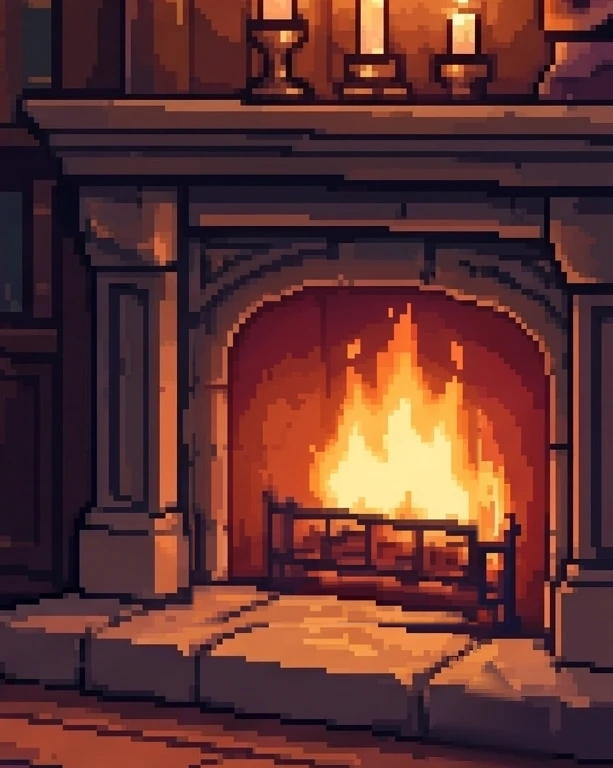
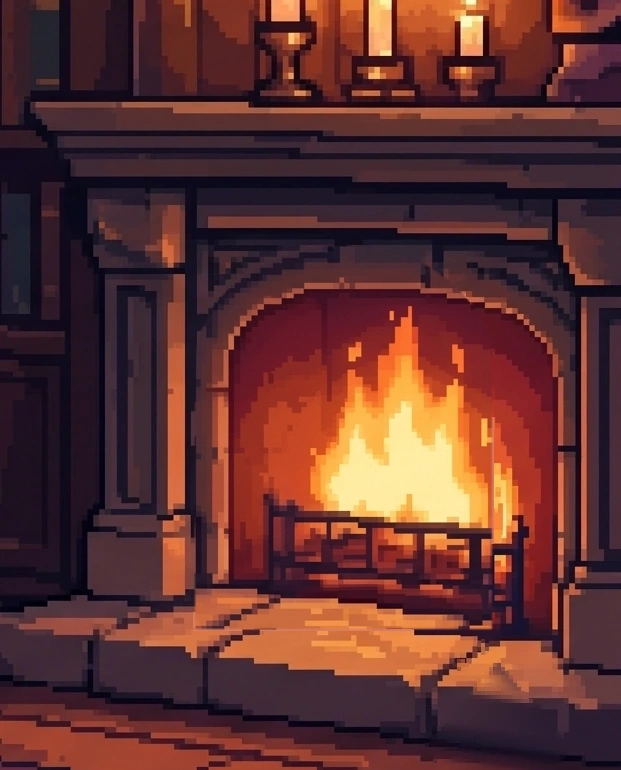
fix(calcifer): fix rocking chair overlap and eliminate background flame glitch across all 24 frames

diff --git a/index.html b/index.html
@@ -8,7 +8,7 @@
   <link rel="preconnect" href="https://fonts.googleapis.com">
   <link rel="preconnect" href="https://fonts.gstatic.com" crossorigin>
   <link href="https://fonts.googleapis.com/css2?family=Be+Vietnam+Pro:wght@300;400;500&family=Cormorant+Garamond:ital,wght@0,300;0,400;0,500;1,300;1,400&family=Press+Start+2P&family=Lora:ital,wght@0,400;0,600;1,400&family=Playfair+Display:ital,wght@0,400;0,700;1,400&family=Dancing+Script:wght@400;700&family=Patrick+Hand&display=swap" rel="stylesheet">
-  <link rel="stylesheet" href="css/style.css?v=20261018p">
+  <link rel="stylesheet" href="css/style.css?v=20261018q">
 </head>
 <body>
 <main id="app">
@@ -377,7 +377,7 @@
 <script src="js/shooting.js?v=20261018m"></script>
 <script src="js/galaxy.js?v=20261018m"></script>
 <script src="js/intro.js?v=20261018n"></script>
-<script src="js/calcifer.js?v=20261018p"></script>
+<script src="js/calcifer.js?v=20261018q"></script>
 <script src="js/main.js?v=20261018n"></script>
 <script src="js/dog.js?v=20261018m"></script>
 </body>

diff --git a/css/style.css b/css/style.css
@@ -27,7 +27,7 @@ button{font:inherit;color:inherit;background:none;border:0;cursor:pointer}
 #intro.open .bg-open{opacity:1}
 
 .sprite{position:absolute;image-rendering:pixelated;pointer-events:none;transition:opacity 1.6s ease}
-.girl{left:56%;top:27.5%;width:28.2%;transform-origin:50% 94%;
+.girl{left:56%;top:27.5%;width:28.2%;z-index:5;transform-origin:50% 94%;
   animation:rock 5.2s ease-in-out infinite;filter:drop-shadow(0 6px 0 rgba(0,0,0,.18))}
 .dog{left:41%;top:71%;width:27%;z-index:2;transform-origin:50% 100%;
   animation:breathe 4.4s ease-in-out infinite}
@@ -1200,11 +1200,11 @@ body.blog-open{
    ========================================================================== */
 .calcifer-container {
   position: absolute;
-  left: 77.725%;
-  top: 42.383%;
-  width: 22.275%;
-  height: 50.000%;
-  z-index: 4;
+  left: 77.435%;
+  top: 42.253%;
+  width: 22.565%;
+  height: 50.130%;
+  z-index: 2;
   cursor: pointer;
   outline: none;
   border: none;

diff --git a/scripts/generate_perfect_24_frames.py b/scripts/generate_perfect_24_frames.py
@@ -1,0 +1,107 @@
+import os
+import numpy as np
+from PIL import Image, ImageFilter
+
+# Exact cell offsets relative to cell0 (dx, dy):
+OFFSETS = [
+    (0, 0),       # Frame 1
+    (5, 0),       # Frame 2
+    (11, 0),      # Frame 3
+    (5, 0),       # Frame 4
+    (-15, 101),   # Frame 5
+    (-32, 101),   # Frame 6
+    (-32, 101),   # Frame 7
+    (-67, 109)    # Frame 8
+]
+
+# Base origin in bg_close:
+BASE_X = 2131
+BASE_Y = 649
+FW = 621  # 2752 - 2131 = 621
+FH = 770
+
+def make_cavity_mask(width, height):
+    # Fire cavity inside the fireplace crop:
+    # Hearth level: y = 625
+    # Arch apex: y = 245
+    # Arch center x: 343
+    # Radius rx = 148, ry = 118
+    mask = np.zeros((height, width), dtype=np.uint8)
+    Y, X = np.ogrid[:height, :width]
+    
+    cx = 343.0
+    cy = 363.0
+    rx = 148.0
+    ry = 118.0
+    
+    top_ellipse = ((X - cx) / rx)**2 + ((Y - cy) / ry)**2 <= 1.0
+    in_top_arch = top_ellipse & (Y <= cy) & (Y >= cy - ry)
+    in_body = (X >= (cx - rx)) & (X <= (cx + rx)) & (Y > cy) & (Y <= 628)
+    
+    mask[in_top_arch | in_body] = 255
+    # Feather by 1px
+    return Image.fromarray(mask).filter(ImageFilter.GaussianBlur(1.0))
+
+def main():
+    bg = Image.open('assets/img/bg_close.webp').convert('RGBA')
+    bg_fp = bg.crop((BASE_X, BASE_Y, BASE_X + FW, BASE_Y + FH))
+    
+    mask = make_cavity_mask(FW, FH)
+    
+    # In bg_fp, let's create a CLEAN cavity base where the static flame is replaced by dark bricks:
+    # Where mask > 0, if pixels are bright fire (R > 180, G > 90), replace with dark brick color:
+    bg_clean_arr = np.array(bg_fp)
+    fire_in_bg = (bg_clean_arr[:, :, 0] > 160) & (bg_clean_arr[:, :, 1] > 80) & (bg_clean_arr[:, :, 2] < 120) & (np.array(mask) > 10)
+    # Dark brick color: sample from non-fire cavity (e.g. x=230, y=360)
+    brick_sample = bg_clean_arr[360, 230, :3] # around [68, 24, 28]
+    bg_clean_arr[fire_in_bg, :3] = brick_sample
+    bg_clean_fp = Image.fromarray(bg_clean_arr)
+    bg_clean_fp.save('/tmp/bg_clean_fp.png')
+    print(f"Cleaned static fire in bg cavity! Brick color: {brick_sample}")
+    
+    f18 = Image.open('Fig/Flame_1_8.png').convert('RGBA')
+    fs1 = Image.open('Fig/Flame_smile.png').convert('RGBA')
+    fs2 = Image.open('Fig/Flame_smile2.png').convert('RGBA')
+    
+    cw, ch = 688, 768
+    
+    out_dir = 'assets/img/calcifer'
+    os.makedirs(out_dir, exist_ok=True)
+    
+    def process_frame(sheet, idx, filename):
+        c = idx % 4
+        r = idx // 4
+        cell = sheet.crop((c * cw, r * ch, (c + 1) * cw, (r + 1) * ch))
+        
+        dx, dy = OFFSETS[idx]
+        
+        # Paste cell onto fireplace canvas with (dx, dy):
+        cell_canvas = Image.new('RGBA', (FW, FH), (0, 0, 0, 0))
+        cell_canvas.paste(cell, (dx, dy))
+        
+        # Composite with bg_clean_fp using mask:
+        comp = Image.composite(cell_canvas, bg_clean_fp, mask)
+        
+        out_path = os.path.join(out_dir, filename)
+        comp.save(out_path, 'WEBP', quality=95)
+        print(f"Generated {filename} (offset dx={dx}, dy={dy})")
+
+    # 1. 8 idle frames:
+    print("Generating 8 idle frames...")
+    for i in range(8):
+        process_frame(f18, i, f'flame_idle_{i+1}.webp')
+        
+    # 2. 8 smile frames:
+    print("Generating 8 smile frames...")
+    for i in range(8):
+        process_frame(fs1, i, f'calcifer_smile_{i+1}.webp')
+
+    # 3. 8 talk frames:
+    print("Generating 8 talk frames...")
+    for i in range(8):
+        process_frame(fs2, i, f'calcifer_talk_{i+1}.webp')
+
+    print("ALL 24 FRAMES RE-GENERATED PERFECTLY!")
+
+if __name__ == '__main__':
+    main()

diff --git a/scripts/match_left_capital.py b/scripts/match_left_capital.py
@@ -1,0 +1,57 @@
+import numpy as np
+from PIL import Image
+
+def find_exact_offset(big_img, small_patch, expected_x, expected_y, search_radius=120):
+    b_arr = np.array(big_img.convert('L'), dtype=float)
+    p_arr = np.array(small_patch.convert('L'), dtype=float)
+    ph, pw = p_arr.shape
+    H, W = b_arr.shape
+    
+    y_min = max(0, expected_y - search_radius)
+    y_max = min(H - ph, expected_y + search_radius)
+    x_min = max(0, expected_x - search_radius)
+    x_max = min(W - pw, expected_x + search_radius)
+    
+    sub_b = b_arr[y_min:y_max + ph, x_min:x_max + pw]
+    best_diff = 1e9
+    best_pos = (expected_x, expected_y)
+    
+    for y in range(y_max - y_min):
+        for x in range(x_max - x_min):
+            diff = np.mean(np.abs(sub_b[y:y+ph, x:x+pw] - p_arr))
+            if diff < best_diff:
+                best_diff = diff
+                best_pos = (x_min + x, y_min + y)
+                
+    return best_pos, best_diff
+
+def main():
+    bg = Image.open('assets/img/bg_close.webp').convert('RGBA')
+    # In bg_close (2752x1536), fireplace origin is near (2139, 651).
+    # Left pillar capital in cell0 is at x: 120..200, y: 220..300.
+    # In bg_close coordinates: x = 2139 + 120 = 2259, y = 651 + 220 = 871.
+    left_capital = bg.crop((2259, 871, 2339, 951))
+    
+    # Also top mantle corner: in cell0 at x: 80..160, y: 140..200
+    # In bg_close: x = 2139 + 80 = 2219, y = 651 + 140 = 791
+    mantle_corner = bg.crop((2219, 791, 2299, 851))
+    
+    print("Testing left pillar capital landmark on all 24 frames:")
+    for name, sheet_file in [('Flame_1_8', 'Fig/Flame_1_8.png'), ('Flame_smile', 'Fig/Flame_smile.png'), ('Flame_smile2', 'Fig/Flame_smile2.png')]:
+        im = Image.open(sheet_file)
+        cw, ch = 688, 768
+        for i in range(8):
+            c, r = i % 4, i // 4
+            cell = im.crop((c * cw, r * ch, (c + 1) * cw, (r + 1) * ch))
+            
+            exp_y = 220 if r == 0 else 125
+            pos, diff = find_exact_offset(cell, left_capital, 120, exp_y, 80)
+            
+            # Since in bg_close left_capital is at (2259, 871):
+            # cell origin in bg_close:
+            bg_x = 2259 - pos[0]
+            bg_y = 871 - pos[1]
+            print(f"{name} {i+1}: capital at {pos}, diff={diff:.2f} => cell in bg: ({bg_x}, {bg_y})")
+
+if __name__ == '__main__':
+    main()

diff --git a/scripts/dump_raw_cells.py b/scripts/dump_raw_cells.py
@@ -1,0 +1,20 @@
+import numpy as np
+from PIL import Image
+
+def main():
+    fs1 = Image.open('Fig/Flame_smile.png').convert('RGBA')
+    f18 = Image.open('Fig/Flame_1_8.png').convert('RGBA')
+    fs2 = Image.open('Fig/Flame_smile2.png').convert('RGBA')
+    cw, ch = 688, 768
+    
+    # Let's save crops of all 24 cells around the arch area (x: 100..600, y: 100..700):
+    for name, sheet in [('f18', f18), ('fs1', fs1), ('fs2', fs2)]:
+        for i in range(8):
+            c = i % 4
+            r = i // 4
+            cell = sheet.crop((c * cw, r * ch, (c + 1) * cw, (r + 1) * ch))
+            cell.save(f'/tmp/{name}_raw_{i+1}.png')
+    print("Saved all 24 raw cells to /tmp/")
+
+if __name__ == '__main__':
+    main()

diff --git a/scripts/inspect_bg_fire.py b/scripts/inspect_bg_fire.py
@@ -1,0 +1,20 @@
+import os
+from PIL import Image
+import numpy as np
+
+def main():
+    bg = Image.open('assets/img/bg_close.webp').convert('RGBA')
+    FX, FY, FW, FH = 2139, 651, 613, 768
+    bg_fp = bg.crop((FX, FY, FX + FW, FY + FH))
+    bg_fp.save('/tmp/bg_fp_raw.png')
+    
+    # Let's inspect where the fire is in bg_close:
+    arr = np.array(bg_fp)
+    # Fire has high R, high G:
+    fire_pixels = (arr[:, :, 0] > 180) & (arr[:, :, 1] > 90) & (arr[:, :, 2] < 90)
+    ys, xs = np.where(fire_pixels)
+    print(f"Fire in bg_close spans: x={xs.min()}..{xs.max()}, y={ys.min()}..{ys.max()}")
+    print(f"Fire center: x={xs.mean():.1f}, y={ys.mean():.1f}")
+
+if __name__ == '__main__':
+    main()
